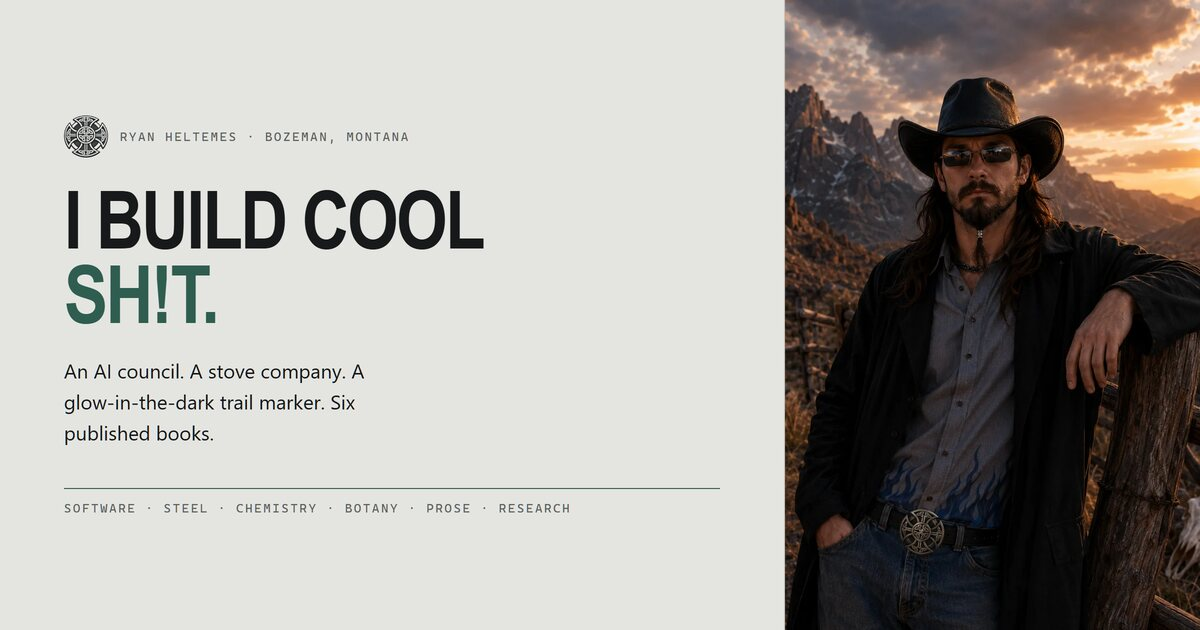
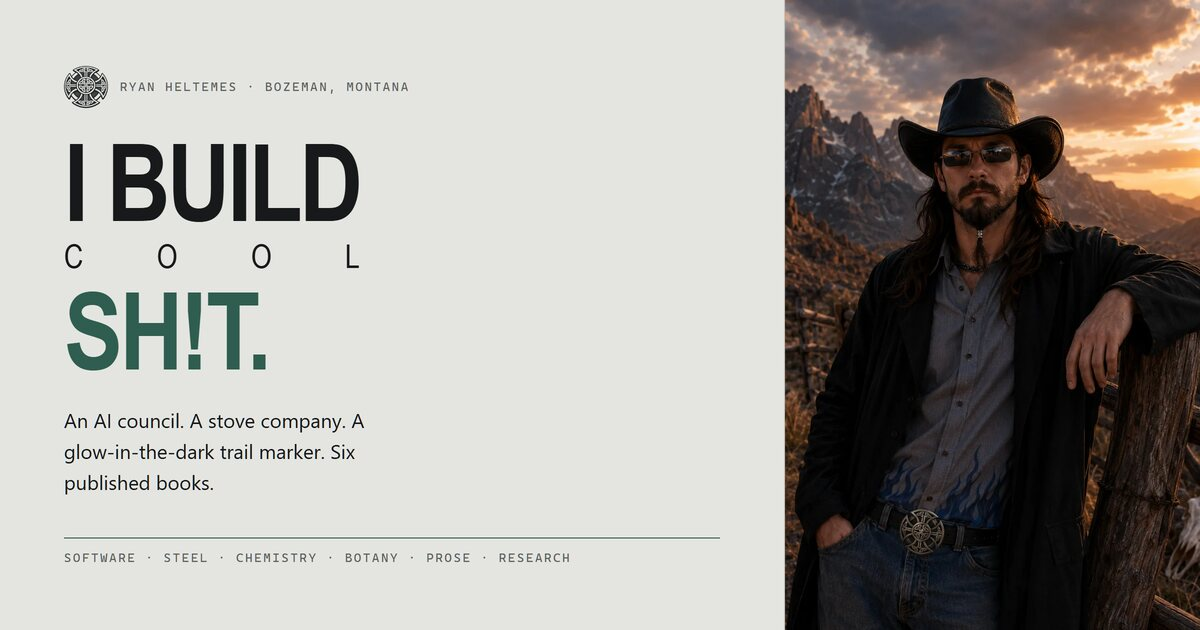
"Cool" becomes the rule between the two heavy words
The headline was two lines, "I BUILD COOL" over "SH!T.". It is three now, and
the middle one is doing a different job: "cool" is set thin, black and
justified edge to edge across the width of the line above it, so it reads as a
RULE dividing building from the thing built rather than as a third word.

One letter per span because nothing in CSS justifies the letters of a single
word — flex space-between does the stretching. No whitespace between the spans,
so the accessible name is still "I build cool sh!t."

The h1 is width: max-content so the rule spans the HEADLINE and not the column;
stretched to the column it would be half again wider than the words it divides.

The hero moved from style.css to index.css on the way. style.css was sitting
exactly on its 300-line cap, so it could not take another rule, and the hero is
front-page-only markup that index.css was created to hold in the first place.
One answer to "where are the hero styles" either way.

The share card gets the same lock-up, re-rendered from source. Its --h1-scale
is tuned against the LONGEST LINE, not the headline's length: that line dropped
from "I BUILD COOL" to "I BUILD", so 2.1 -> 2.8. max-content is behind a
.headline--rule modifier because on .headline generally it would stop the other
cards' headlines wrapping and run them off the edge.

og:image cache-buster bumped ?2 -> ?3.

diff --git a/index.css b/index.css
@@ -1,13 +1,83 @@
-/* index.css — the INDEX GRAMMAR: top nav, group headings, and the compact
-   one-row-per-thing list. Used by the front page and by aletheia-papers.html,
-   which is the same job one level down. Separate from style.css because
-   style.css sits at 275 of its 300-line budget.
+/* index.css — the FRONT-PAGE GRAMMAR: the hero, the top nav, group headings,
+   and the compact one-row-per-thing list. The nav and the list are also used by
+   aletheia-papers.html, which is the same job one level down. Separate from
+   style.css because style.css sits at its 300-line budget.
 
    What this file exists to do: keep the landing page SMALL. The old index gave
    every work a full plate and two paragraphs, which is why nine works ran to
    357 lines. The cost was never the number of works — it was the verbosity per
    work. So a work is now one row, and the page stays scannable as the list
    grows. Anything that wants a paragraph belongs on the project's own site. */
+
+/* --- Hero ----------------------------------------------------------------
+   Headline and portrait sit side by side. The portrait is 3:4 because every
+   picture of the subject is portrait or square — a 21:9 band would crop his
+   head off, so the frame follows the photograph rather than the other way
+   round. */
+.hero {
+  padding-block: var(--space-6) var(--space-5);
+  display: grid;
+  grid-template-columns: minmax(0, 1fr) minmax(0, var(--portrait-col));
+  gap: var(--space-5);
+  align-items: end;
+}
+
+/* max-content, not the column: the middle line stretches to the width of this
+   box, and a box the width of the COLUMN would make the rule half again wider
+   than the words it sits between. Sized to the longest line instead, it spans
+   exactly the headline. */
+.hero-line {
+  font-family: var(--font-display);
+  font-size: var(--step-display);
+  font-weight: var(--weight-bold);
+  line-height: var(--leading-tight);
+  letter-spacing: var(--track-display);
+  text-transform: uppercase;
+  width: max-content;
+  max-width: 100%;
+  margin: 0;
+}
+
+.hero-line em {
+  font-style: normal;
+  color: var(--accent);
+}
+
+/* The middle word is set thin and spread edge to edge so it reads as a RULE
+   dividing the two heavy words, not as a third one. Flex is what stretches it:
+   no CSS justifies the letters of a single word, so each letter is its own
+   item and space-between does the spacing. The letter spans carry no
+   whitespace between them, so the accessible name is still "I build cool
+   sh!t." Body leading, not the display's 0.92, is what opens the air above and
+   below the rule — it needs to breathe or it reads as a squashed line of type.
+   Mirrored in the share card: _source-assets/og/card.css .headline .rule.
+   Change one, change both. */
+.hero-rule {
+  display: flex;
+  justify-content: space-between;
+  font-size: calc(var(--step-display) * 0.3);
+  font-weight: var(--weight-normal);
+  line-height: var(--leading-body);
+  letter-spacing: normal;
+  color: var(--ink);
+}
+
+.hero-sub {
+  margin: var(--space-4) 0 0;
+  max-width: var(--measure);
+  font-size: var(--step-1);
+}
+
+.hero-meta { margin-top: var(--space-3); }
+
+/* Portrait drops below the headline rather than beside it. */
+@media (max-width: 46rem) {
+  .hero {
+    grid-template-columns: 1fr;
+    gap: var(--space-4);
+    padding-block: var(--space-5) var(--space-4);
+  }
+}
 
 /* --- Top navigation ------------------------------------------------------
    A sorting mechanism, not a site map: four groups, each jumping to its own

diff --git a/index.html b/index.html
@@ -10,7 +10,7 @@
 <meta property="og:description" content="One person, Montana. An AI council, a stove company, a glow-in-the-dark trail marker, six published books and a research series. Software, sheet steel, chemistry, herbs and prose.">
 <meta property="og:type" content="website">
 <meta property="og:url" content="https://ryan-heltemes.com/">
-<meta property="og:image" content="https://ryan-heltemes.com/assets/og/og-card.jpg?2">
+<meta property="og:image" content="https://ryan-heltemes.com/assets/og/og-card.jpg?3">
 <meta property="og:image:width" content="1200">
 <meta property="og:image:height" content="630">
 <meta property="og:image:alt" content="Ryan Heltemes against a Montana sunset — I build cool sh!t. Software, steel, chemistry, botany, prose, research.">
@@ -18,7 +18,7 @@
 <meta name="twitter:card" content="summary_large_image">
 <meta name="twitter:title" content="Ryan Heltemes — I build cool sh!t.">
 <meta name="twitter:description" content="One person, Montana. An AI council, a stove company, a glow-in-the-dark trail marker, six published books and a research series.">
-<meta name="twitter:image" content="https://ryan-heltemes.com/assets/og/og-card.jpg?2">
+<meta name="twitter:image" content="https://ryan-heltemes.com/assets/og/og-card.jpg?3">
 
 <!-- His own Celtic-cross belt buckle — the one he is wearing in the portrait below.
      favicon.ico carries 16/32/48. The 16 is a separate, contrast-boosted render:
@@ -54,8 +54,14 @@
        The thesis: the range IS the story. -->
   <section class="hero wrap">
    <div class="hero-text">
+    <!-- Three lines, and the middle one is the point: "cool" is set thin and
+         justified edge to edge so it reads as a RULE between the two heavy
+         words. One letter per span because nothing in CSS justifies the letters
+         of a single word — see .hero-rule in index.css. No whitespace between
+         the spans, so this still reads as "I build cool sh!t." -->
     <h1 class="hero-line rise">
-      I build cool<br>
+      I build
+      <span class="hero-rule"><span>c</span><span>o</span><span>o</span><span>l</span></span>
       <em>sh!t.</em>
     </h1>
 

diff --git a/style.css b/style.css
@@ -73,41 +73,9 @@ a { color: inherit; }
   background-position: center;
 }
 
-/* --- Hero ----------------------------------------------------------------
-   Headline and portrait sit side by side. The portrait is 3:4 because every
-   picture of the subject is portrait or square — a 21:9 band would crop his
-   head off, so the frame follows the photograph rather than the other way
-   round. */
-.hero {
-  padding-block: var(--space-6) var(--space-5);
-  display: grid;
-  grid-template-columns: minmax(0, 1fr) minmax(0, var(--portrait-col));
-  gap: var(--space-5);
-  align-items: end;
-}
-
-.hero-line {
-  font-family: var(--font-display);
-  font-size: var(--step-display);
-  font-weight: var(--weight-bold);
-  line-height: var(--leading-tight);
-  letter-spacing: var(--track-display);
-  text-transform: uppercase;
-  margin: 0;
-}
-
-.hero-line em {
-  font-style: normal;
-  color: var(--accent);
-}
-
-.hero-sub {
-  margin: var(--space-4) 0 0;
-  max-width: var(--measure);
-  font-size: var(--step-1);
-}
-
-.hero-meta { margin-top: var(--space-3); }
+/* The hero belongs to the front page alone and lives in index.css, next to the
+   rest of the front-page grammar. It left this file when the headline grew a
+   third line and this file was already sitting on its 300-line cap. */
 
 /* --- Plate: an image slot that looks deliberate while it is still empty ----
    Uses background-image, never <img>, so a file that does not exist yet
@@ -276,11 +244,7 @@ a { color: inherit; }
 }
 
 @media (max-width: 46rem) {
-  /* Portrait drops below the headline and stops being full-bleed tall. */
-  .hero {
-    grid-template-columns: 1fr;
-    gap: var(--space-4);
-  }
+  /* Portrait drops below the headline (index.css) and stops being full-bleed. */
   .plate--portrait { max-width: var(--portrait-col); }
 
   .entry {
@@ -296,5 +260,4 @@ a { color: inherit; }
     border-top: none;
     padding-top: 0;
   }
-  .hero { padding-block: var(--space-5) var(--space-4); }
 }

diff --git a/tokens.css b/tokens.css
@@ -42,12 +42,15 @@
   --step-1:  1.25rem;
   --step-2:  1.6rem;
   --step-3:  2.4rem;
-  /* Back to 6.5rem — the headline got longer again, exactly as the note here
-     warned it might. "I build sh!t." was two short words and could take 9rem;
-     "I build cool sh!t." cannot, because "I BUILD COOL" has to fit the column
-     beside the portrait and overflows above ~7rem at desktop width. Re-check
-     this AND re-render the home share card if the headline changes again —
-     the card sets its own size and will not follow this token. */
+  /* What this number is really tuned against is the headline's LONGEST LINE
+     fitting the column beside the portrait, not the headline's length. That
+     line was "I BUILD COOL", which overflowed above ~7rem and forced this back
+     down to 6.5rem; since "cool" became the thin rule between the two heavy
+     words the longest line is just "I BUILD", and the ceiling is nearer 9rem
+     again. 6.5rem is kept by choice — the hero is a catalogue plate, and the
+     air to the right of the lock-up is doing work. Re-check this AND re-render
+     the home share card if the headline changes again: the card sets its own
+     size and will not follow this token. */
   --step-display: clamp(2.75rem, 7vw, 6.5rem);
 
   --leading-tight: 0.92;
